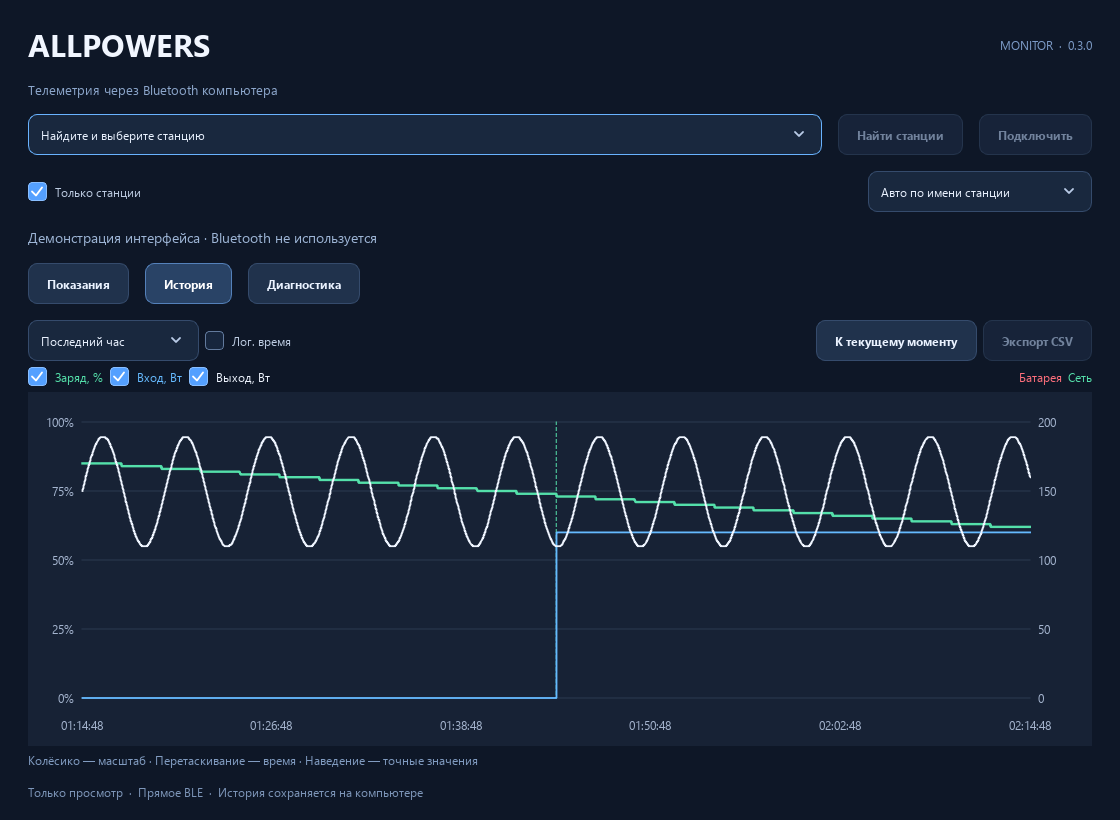
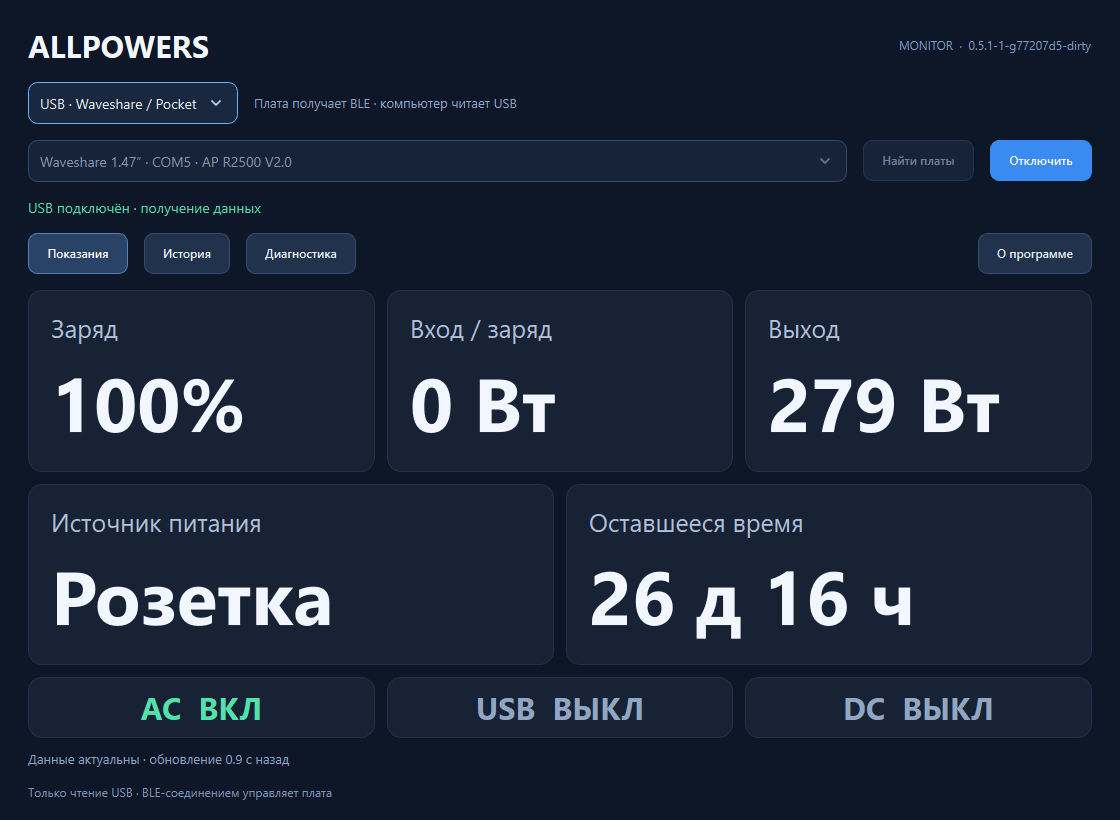
docs: refresh README interface examples

diff --git a/README.ru.md b/README.ru.md
@@ -21,7 +21,20 @@ R2500 V2; другие профили показывают только изве
 график USB. Его записи помечены отдельно: адрес станции в них не хранится.
 [USB-режим](docs/usb-monitor.md).
 
-![Ранний интерфейс монитора Windows с демонстрационными данными](docs/images/windows-monitor.png)
+**Примеры интерфейса**
+
+![Монитор Windows — обзор показаний](docs/images/windows-monitor.png)
+
+| Виджет рабочего стола Windows | Экран Waveshare 1.47″ |
+| --- | --- |
+| <img src="docs/images/windows-widget.png" alt="Виджет с показаниями и часовым графиком мощности" width="300"> | <img src="docs/images/waveshare-display.png" alt="Экран Waveshare — обзор показаний" width="172"> |
+
+<details>
+<summary>История в мониторе</summary>
+
+![Монитор Windows — история показаний](docs/images/windows-history.png)
+
+</details>
 
 В Windows-пакете два самостоятельных приложения: **AllpowersMonitor.exe** и
 **AllpowersWidget.exe**. Каждому достаточно собственного EXE. Qt, SQLite, оконные плагины, общее ядро и

diff --git a/README.md b/README.md
@@ -21,7 +21,20 @@ required. The board archive automatically fills gaps in the main USB history
 chart; its records remain labelled separately because they lack station identity.
 See [USB mode](docs/usb-monitor.md).
 
-![Earlier Windows monitor UI with synthetic data](docs/images/windows-monitor.png)
+**Interface examples**
+
+![Windows Monitor — telemetry overview](docs/images/windows-monitor.png)
+
+| Windows desktop widget | Waveshare 1.47″ display |
+| --- | --- |
+| <img src="docs/images/windows-widget.png" alt="Desktop widget with telemetry and one-hour power history" width="300"> | <img src="docs/images/waveshare-display.png" alt="Waveshare display — telemetry overview" width="172"> |
+
+<details>
+<summary>Monitor history</summary>
+
+![Windows Monitor — telemetry history](docs/images/windows-history.png)
+
+</details>
 
 The Windows package includes **AllpowersMonitor.exe** and **AllpowersWidget.exe**.
 Each application runs from its own EXE: Qt, SQLite, platform plugins, the protocol core
